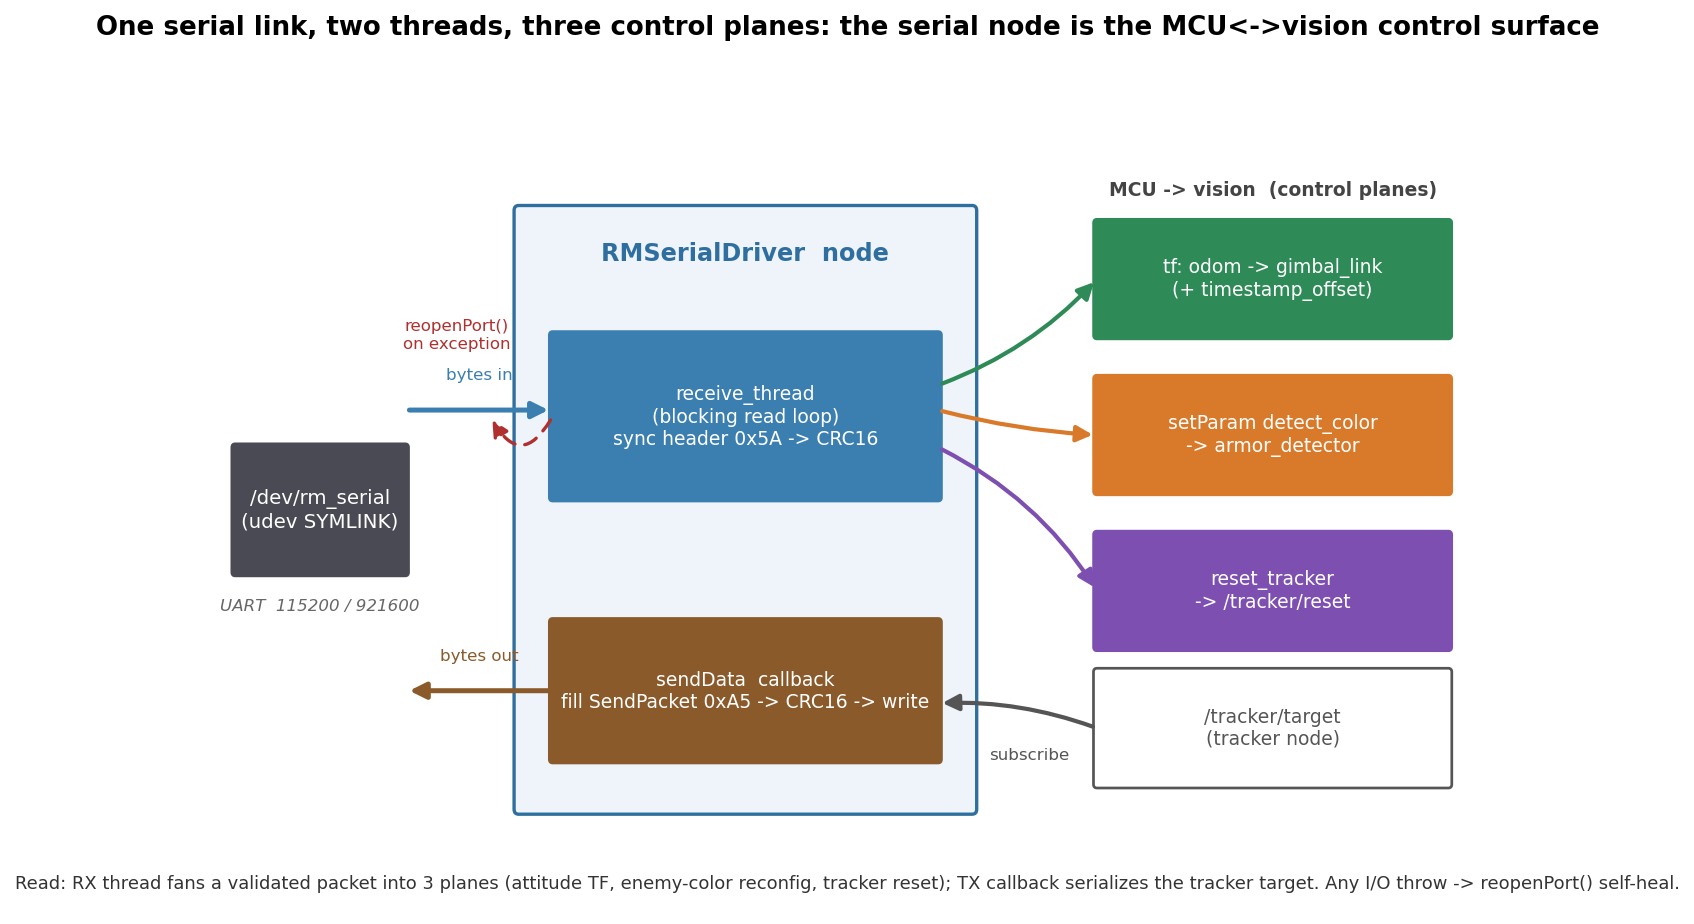
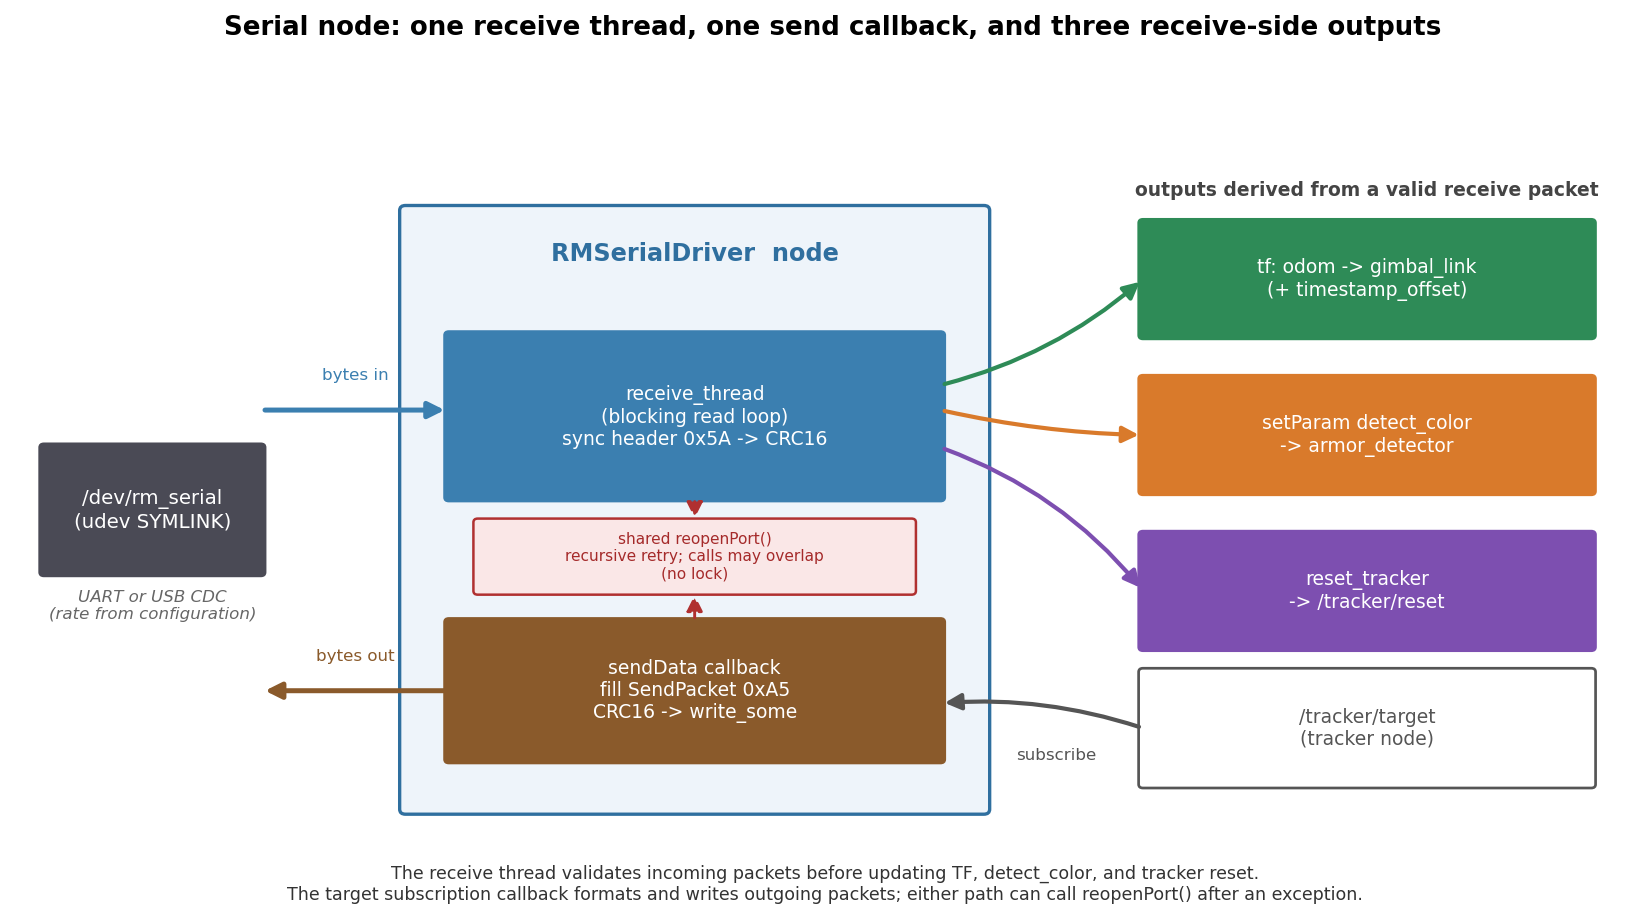
style(application): 完善串口驱动与设备命名边界

diff --git a/examples/application/app_serial_udev_chain.py b/examples/application/app_serial_udev_chain.py
@@ -1,5 +1,5 @@
 #!/usr/bin/env python3
-"""Why the tty name jumps, and how udev pins it.
+"""Sysfs parent matching and udev symlink creation for a USB serial device.
 
 Mechanism figure for the udev section of the "串口模块" chapter. Two ideas on one
 canvas: (left) the sysfs parent chain that explains ATTR vs ATTRS matching, and
@@ -10,6 +10,7 @@ Output: chapters/4.Application/images/app-serial-udev-chain.png (dpi 150).
 import matplotlib
 matplotlib.use("Agg")
 import matplotlib.pyplot as plt
+from pathlib import Path
 from matplotlib.patches import FancyBboxPatch, FancyArrowPatch
 
 C_TTY = "#6b7a8f"
@@ -58,24 +59,22 @@ arrow(24, 39.5, 24, 45.5, "#888888", lw=1.6)
 ax.text(27.5, 30.6, "parent", fontsize=7.4, color="#888888", ha="left")
 ax.text(27.5, 42.6, "parent", fontsize=7.4, color="#888888", ha="left")
 
-# ATTR (only the tty) — fails
-arrow(3.5, 24.2, 0.8, 24.2, C_BAD, lw=1.6, style="-|>", rad=0)
-ax.text(2.0, 19.8, "ATTR{}\nleaf only:\nno idVendor",
-        ha="center", va="center", fontsize=7.2, color=C_BAD)
-
-# ATTRS (walks up) — finds it
+# ATTR checks the current tty; ATTRS may match one parent in this chain.
 arrow(44.6, 24.5, 47, 24.5, C_USB, lw=1.8)
 arrow(47, 24.5, 47, 50, C_USB, lw=1.8, rad=0)
 arrow(47, 50, 44.6, 50, C_USB, lw=1.8)
-ax.text(49.2, 37, "ATTRS{}\nwalks UP\n-> finds\nidVendor",
-        ha="left", va="center", fontsize=7.4, color=C_USB, weight="bold")
+ax.text(49.0, 37, "ATTRS{}\nmay match\none parent",
+        ha="left", va="center", fontsize=7.1, color=C_USB, weight="bold")
+ax.text(24, 18.5,
+        "ATTR{idVendor}: current tty only -> no match here    |    ATTRS{idVendor}: USB parent -> match",
+        ha="center", va="center", fontsize=7.4, color="#555555")
 
 # name-jump problem
-box(3, 8, 42, 8.5, "boot / replug order is nondeterministic\nttyUSB0  <->  ttyUSB1  (name jumps)",
+box(3, 6, 42, 8.5, "enumeration order can change after boot or replug\nttyUSB0  <->  ttyUSB1",
     "#f4e3e3", tc=C_BAD, ec=C_BAD, lw=1.3, fs=8.6)
 
 # ============ RIGHT: event -> udevd -> rule -> symlink ============
-ax.text(86, 63.5, "how udev pins a stable name", ha="center",
+ax.text(86, 63.5, "udev rule evaluation and symlink creation", ha="center",
         fontsize=9.3, color="#333333", weight="bold")
 
 box(60, 54, 52, 6.5, "kernel plug event  (uevent, netlink)", C_EVENT, fs=9)
@@ -87,33 +86,26 @@ box(59, 26, 54, 11,
     'SUBSYSTEM=="tty",\nATTRS{idVendor}=="1a86",  ATTRS{idProduct}=="7523",\n'
     'MODE="0660",  GROUP="dialout",  SYMLINK+="rm_serial"',
     C_RULE, fs=7.3)
-box(66, 13.5, 40, 8, "/dev/rm_serial  ->  ttyUSB(x)\n(stable symlink, whatever the number)",
+box(66, 14, 40, 8, "/dev/rm_serial  ->  ttyUSB(x)\n(valid only while this match is unique)",
     C_LINK, fs=8.4)
 
 arrow(86, 54, 86, 50.5, C_EVENT, lw=2.0)
 arrow(86, 42.5, 86, 37.5, C_EVENT, lw=2.0)
 arrow(86, 26, 86, 21.5, C_RULE, lw=2.0)
 
-# apply-without-replug note
-ax.text(86, 8.5,
-        "after editing:  sudo udevadm control --reload   then   sudo udevadm trigger",
-        ha="center", fontsize=8.0, color="#333333",
-        bbox=dict(boxstyle="round,pad=0.4", fc="#eef2f6", ec="#9fb0c0"))
+box(63, 5, 46, 6.5,
+    "VID/PID alone cannot distinguish\ntwo devices of the same model.",
+    "#f4e3e3", tc=C_BAD, ec=C_BAD, lw=1.2, fs=8.0)
 
 # bridge arrow: the chain feeds the rule match
-arrow(45, 49, 58.5, 33, C_USB, lw=1.6, ls=(0, (5, 3)), rad=-0.15)
-ax.text(53, 45, "match keys\nfrom the chain", ha="center", va="center",
-        fontsize=7.4, color=C_USB)
+arrow(44, 49, 58.5, 33, C_USB, lw=1.6, ls=(0, (5, 3)), rad=-0.10)
 
-# title + read rule
-fig.suptitle("Why the tty name jumps, and how udev pins it: match on stable attributes up the parent chain",
+# Title.
+fig.suptitle("Matching a USB serial device through its sysfs parent chain",
              fontsize=12.5, weight="bold", y=0.975)
-ax.text(57, 2.4,
-        "Read left-to-right: idVendor/idProduct live on the USB-device ancestor, not the tty leaf, so the rule must use "
-        "ATTRS{} (walks up), never ATTR{} (leaf only). The symlink then survives every ttyUSB0<->ttyUSB1 shuffle.",
-        ha="center", va="center", fontsize=8.4, color="#333333")
 
-plt.tight_layout(rect=[0, 0.03, 1, 0.95])
-plt.savefig("chapters/4.Application/images/app-serial-udev-chain.png", dpi=150,
+plt.tight_layout(rect=[0, 0.01, 1, 0.95])
+output_path = Path(__file__).resolve().parents[2] / "chapters/4.Application/images/app-serial-udev-chain.png"
+plt.savefig(output_path, dpi=150,
             bbox_inches="tight", facecolor="white")
-print("saved app-serial-udev-chain.png")
+print(f"saved {output_path}")

diff --git a/examples/application/app_serial_node_dataflow.py b/examples/application/app_serial_node_dataflow.py
@@ -1,15 +1,15 @@
 #!/usr/bin/env python3
-"""Serial-module node dataflow: one serial link, two threads, three control planes.
+"""Execution paths and ROS 2 interfaces of the serial-driver node.
 
 Mechanism figure for the "串口模块" chapter. Shows how the ROS serial-driver node
-turns a single UART link into the bidirectional control surface between the MCU
-(gimbal/IMU/referee side) and the vision pipeline.
+connects the MCU-side serial stream to the vision pipeline.
 
 Output: chapters/4.Application/images/app-serial-node-dataflow.png (dpi 150).
 """
 import matplotlib
 matplotlib.use("Agg")
 import matplotlib.pyplot as plt
+from pathlib import Path
 from matplotlib.patches import FancyBboxPatch, FancyArrowPatch
 
 C_NODE = "#2f6f9f"
@@ -45,7 +45,7 @@ def arrow(x1, y1, x2, y2, color, lw=2.0, style="-|>", ls="-", rad=0.0):
 
 # --- serial device (left) ---
 box(2, 27, 15, 10, "/dev/rm_serial\n(udev SYMLINK)", C_DEV, fs=9.5)
-ax.text(9.5, 24.3, "UART  115200 / 921600", ha="center", va="center",
+ax.text(9.5, 24.3, "UART or USB CDC\n(rate from configuration)", ha="center", va="center",
         fontsize=8, color="#666666", style="italic")
 
 # --- the node (center) ---
@@ -57,13 +57,14 @@ ax.text(47, 52.5, "RMSerialDriver  node", ha="center", va="center",
 box(30, 33, 34, 13, "receive_thread\n(blocking read loop)\nsync header 0x5A -> CRC16",
     C_RXTH, fs=9)
 # send callback
-box(30, 12, 34, 11, "sendData  callback\nfill SendPacket 0xA5 -> CRC16 -> write",
+box(30, 12, 34, 11, "sendData callback\nfill SendPacket 0xA5\nCRC16 -> write_some",
     C_TXCB, fs=9)
 
-# reopenPort self-heal loop
-arrow(30, 39.5, 24.5, 39.5, "#b03030", lw=1.6, style="-|>", ls=(0, (4, 3)), rad=-0.9)
-ax.text(21.5, 46, "reopenPort()\non exception", ha="center", va="center",
-        fontsize=8, color="#b03030")
+# Both paths can enter the same reopen routine concurrently.
+box(32, 25.5, 30, 5.5, "shared reopenPort()\nrecursive retry; calls may overlap\n(no lock)",
+    "#fae7e7", tc="#a52a2a", ec="#b03030", lw=1.2, fs=7.4)
+arrow(47, 33, 47, 31, "#b03030", lw=1.4, ls=(0, (4, 3)))
+arrow(47, 23, 47, 25.5, "#b03030", lw=1.4, ls=(0, (4, 3)))
 
 # device <-> node bidirectional
 arrow(17, 40, 30, 40, C_RXTH, lw=2.4)          # RX in
@@ -71,7 +72,7 @@ arrow(30, 17.5, 17, 17.5, C_TXCB, lw=2.4)      # TX out
 ax.text(23.5, 42.4, "bytes in", ha="center", fontsize=8, color=C_RXTH)
 ax.text(23.5, 19.9, "bytes out", ha="center", fontsize=8, color=C_TXCB)
 
-# --- three control planes (right, from receive thread) ---
+# --- three receive-side outputs ---
 box(78, 46, 31, 9, "tf: odom -> gimbal_link\n(+ timestamp_offset)", C_TF, fs=9)
 box(78, 33.5, 31, 9, "setParam detect_color\n-> armor_detector", C_PARAM, fs=9)
 box(78, 21, 31, 9, "reset_tracker\n-> /tracker/reset", C_RESET, fs=9)
@@ -86,19 +87,20 @@ box(78, 10, 31, 9, "/tracker/target\n(tracker node)", "#ffffff", tc=C_SUB,
 arrow(78, 14.5, 64, 16.5, C_SUB, lw=2.0, rad=0.10)
 ax.text(72, 12.0, "subscribe", ha="center", fontsize=8, color=C_SUB)
 
-# labels for the three planes
-ax.text(93.5, 57.2, "MCU -> vision  (control planes)", ha="center",
+# Label for the receive-side outputs.
+ax.text(93.5, 57.2, "outputs derived from a valid receive packet", ha="center",
         fontsize=9, color="#444444", weight="bold")
 
-# title + read rule
-fig.suptitle("One serial link, two threads, three control planes: the serial node is the MCU<->vision control surface",
+# Title and reading note.
+fig.suptitle("Serial node: one receive thread, one send callback, and three receive-side outputs",
              fontsize=12.5, weight="bold", y=0.975)
 ax.text(56, 2.0,
-        "Read: RX thread fans a validated packet into 3 planes (attitude TF, enemy-color reconfig, tracker reset); "
-        "TX callback serializes the tracker target. Any I/O throw -> reopenPort() self-heal.",
-        ha="center", va="center", fontsize=8.6, color="#333333")
+        "The receive thread validates incoming packets before updating TF, detect_color, and tracker reset.\n"
+        "The target subscription callback formats and writes outgoing packets; either path can call reopenPort() after an exception.",
+        ha="center", va="center", fontsize=8.4, color="#333333")
 
 plt.tight_layout(rect=[0, 0.02, 1, 0.95])
-plt.savefig("chapters/4.Application/images/app-serial-node-dataflow.png", dpi=150,
+output_path = Path(__file__).resolve().parents[2] / "chapters/4.Application/images/app-serial-node-dataflow.png"
+plt.savefig(output_path, dpi=150,
             bbox_inches="tight", facecolor="white")
-print("saved app-serial-node-dataflow.png")
+print(f"saved {output_path}")
